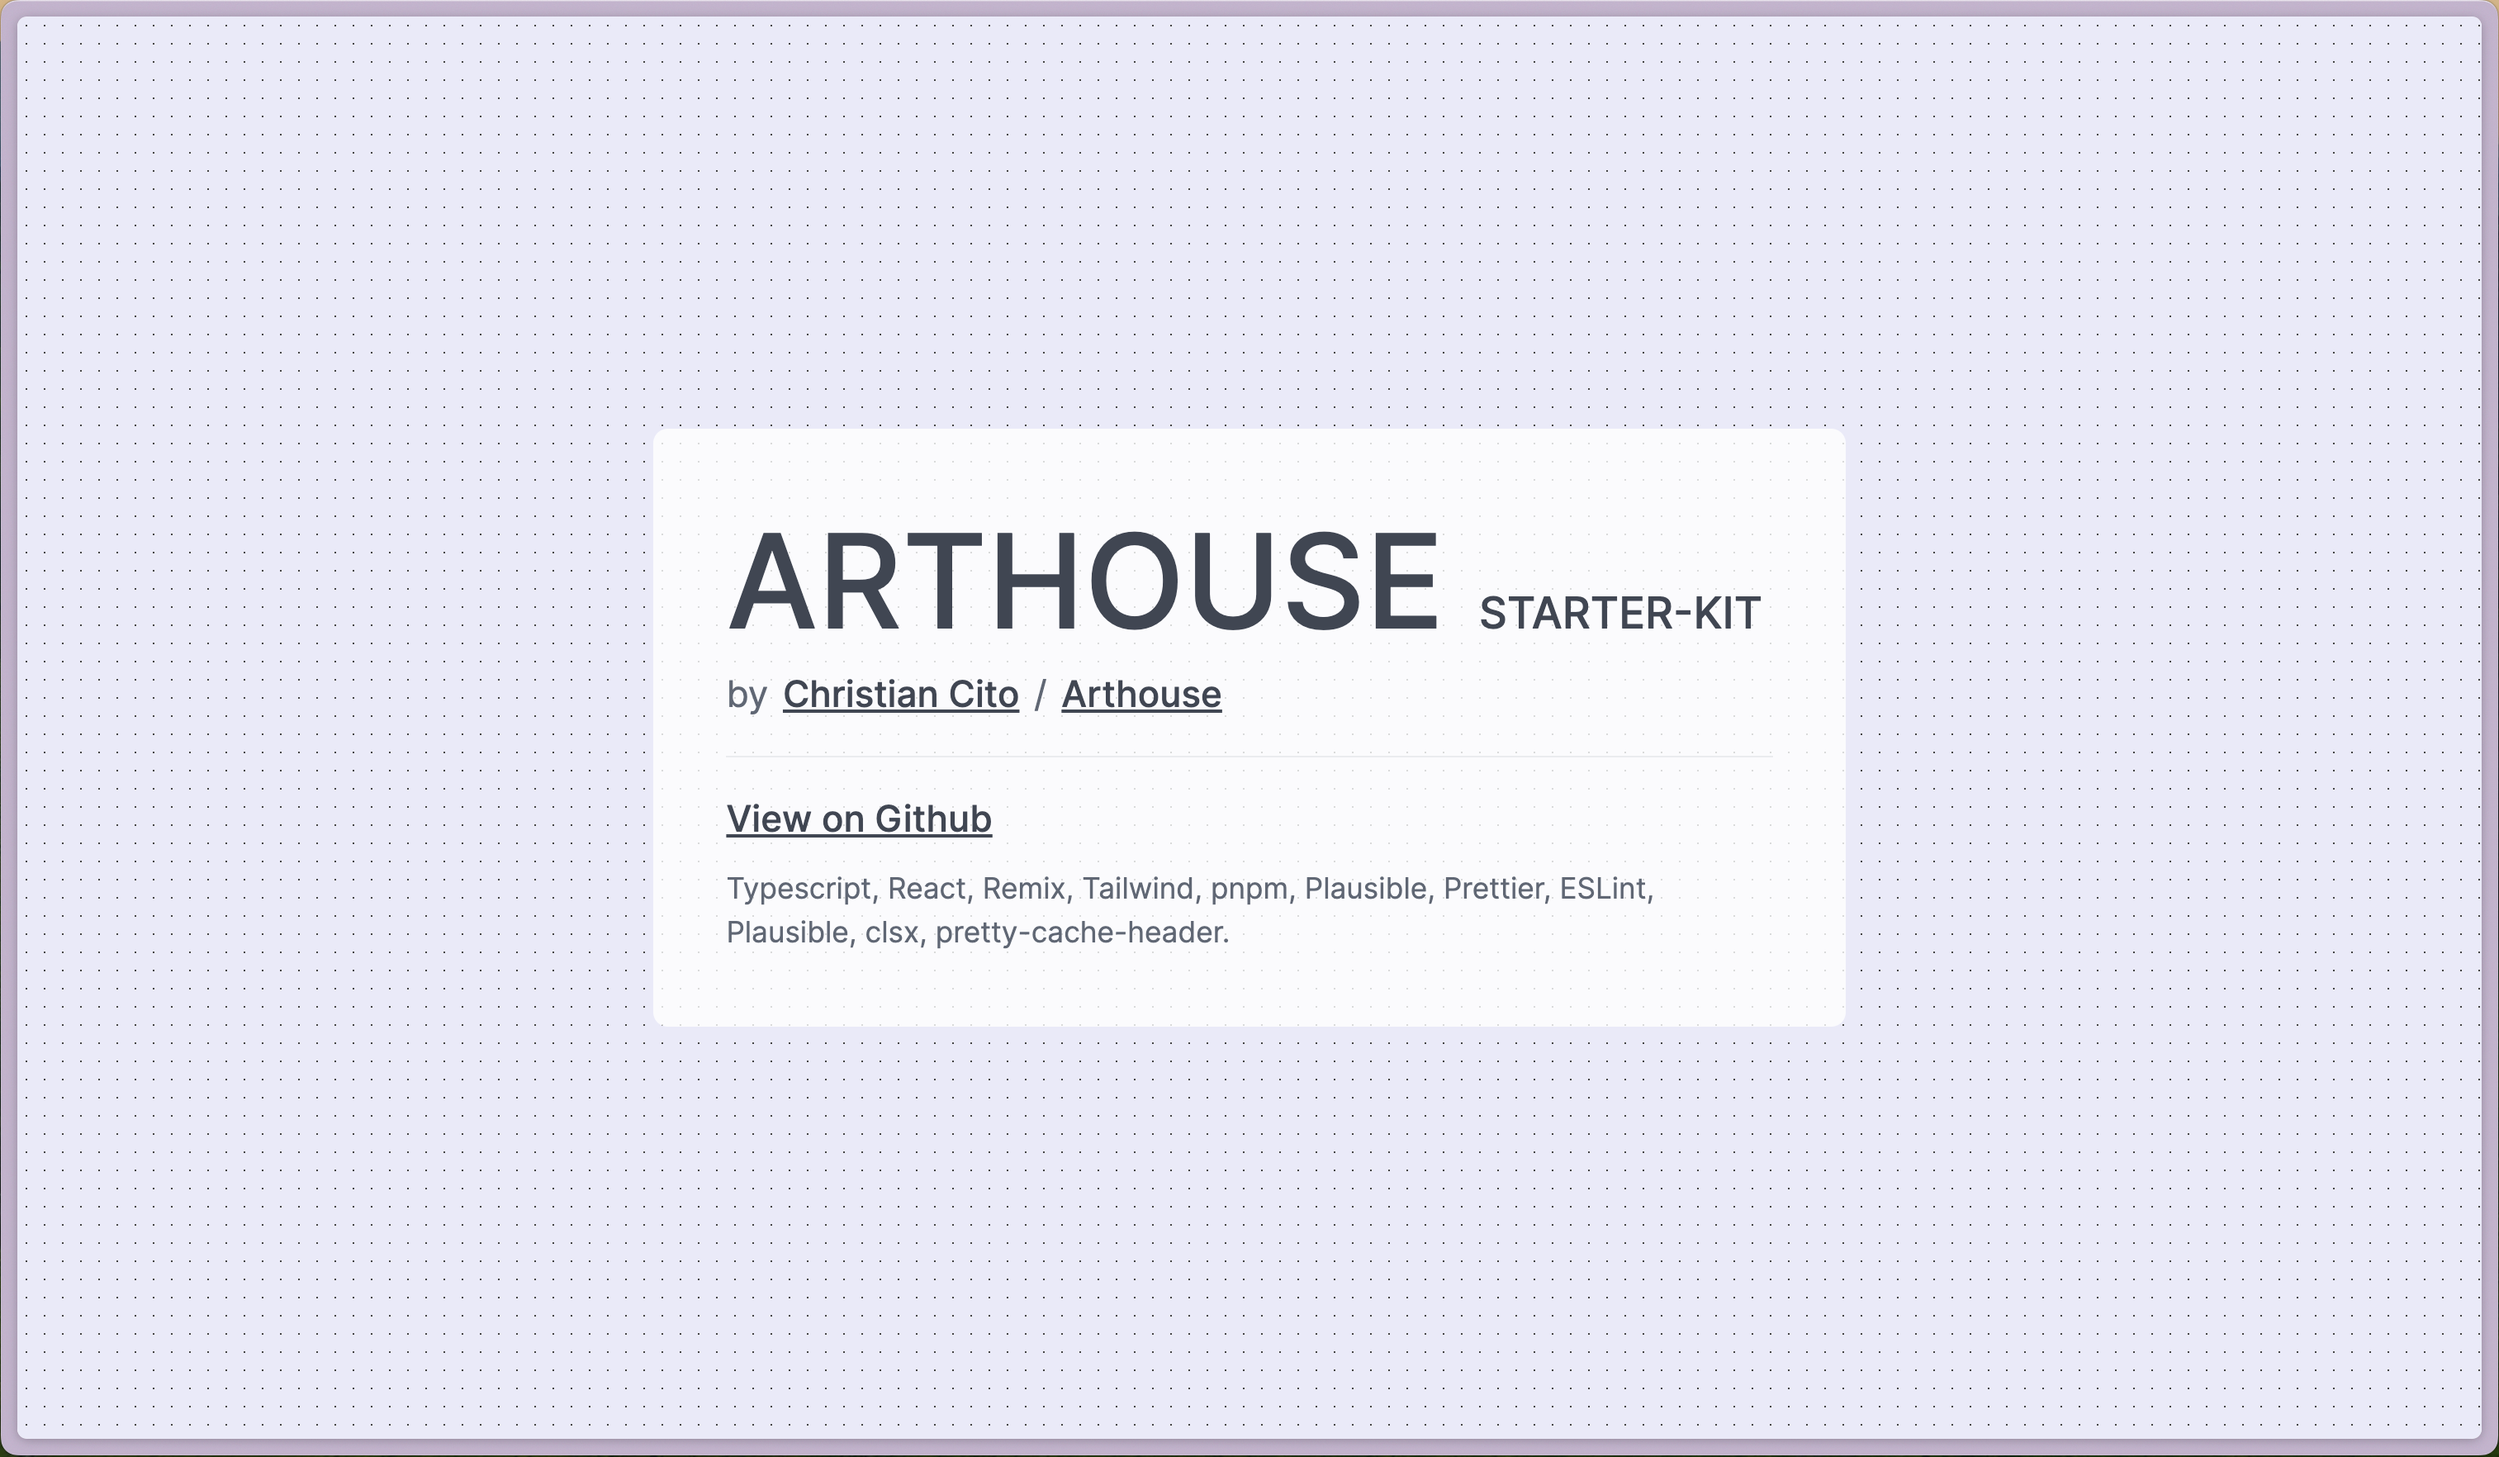
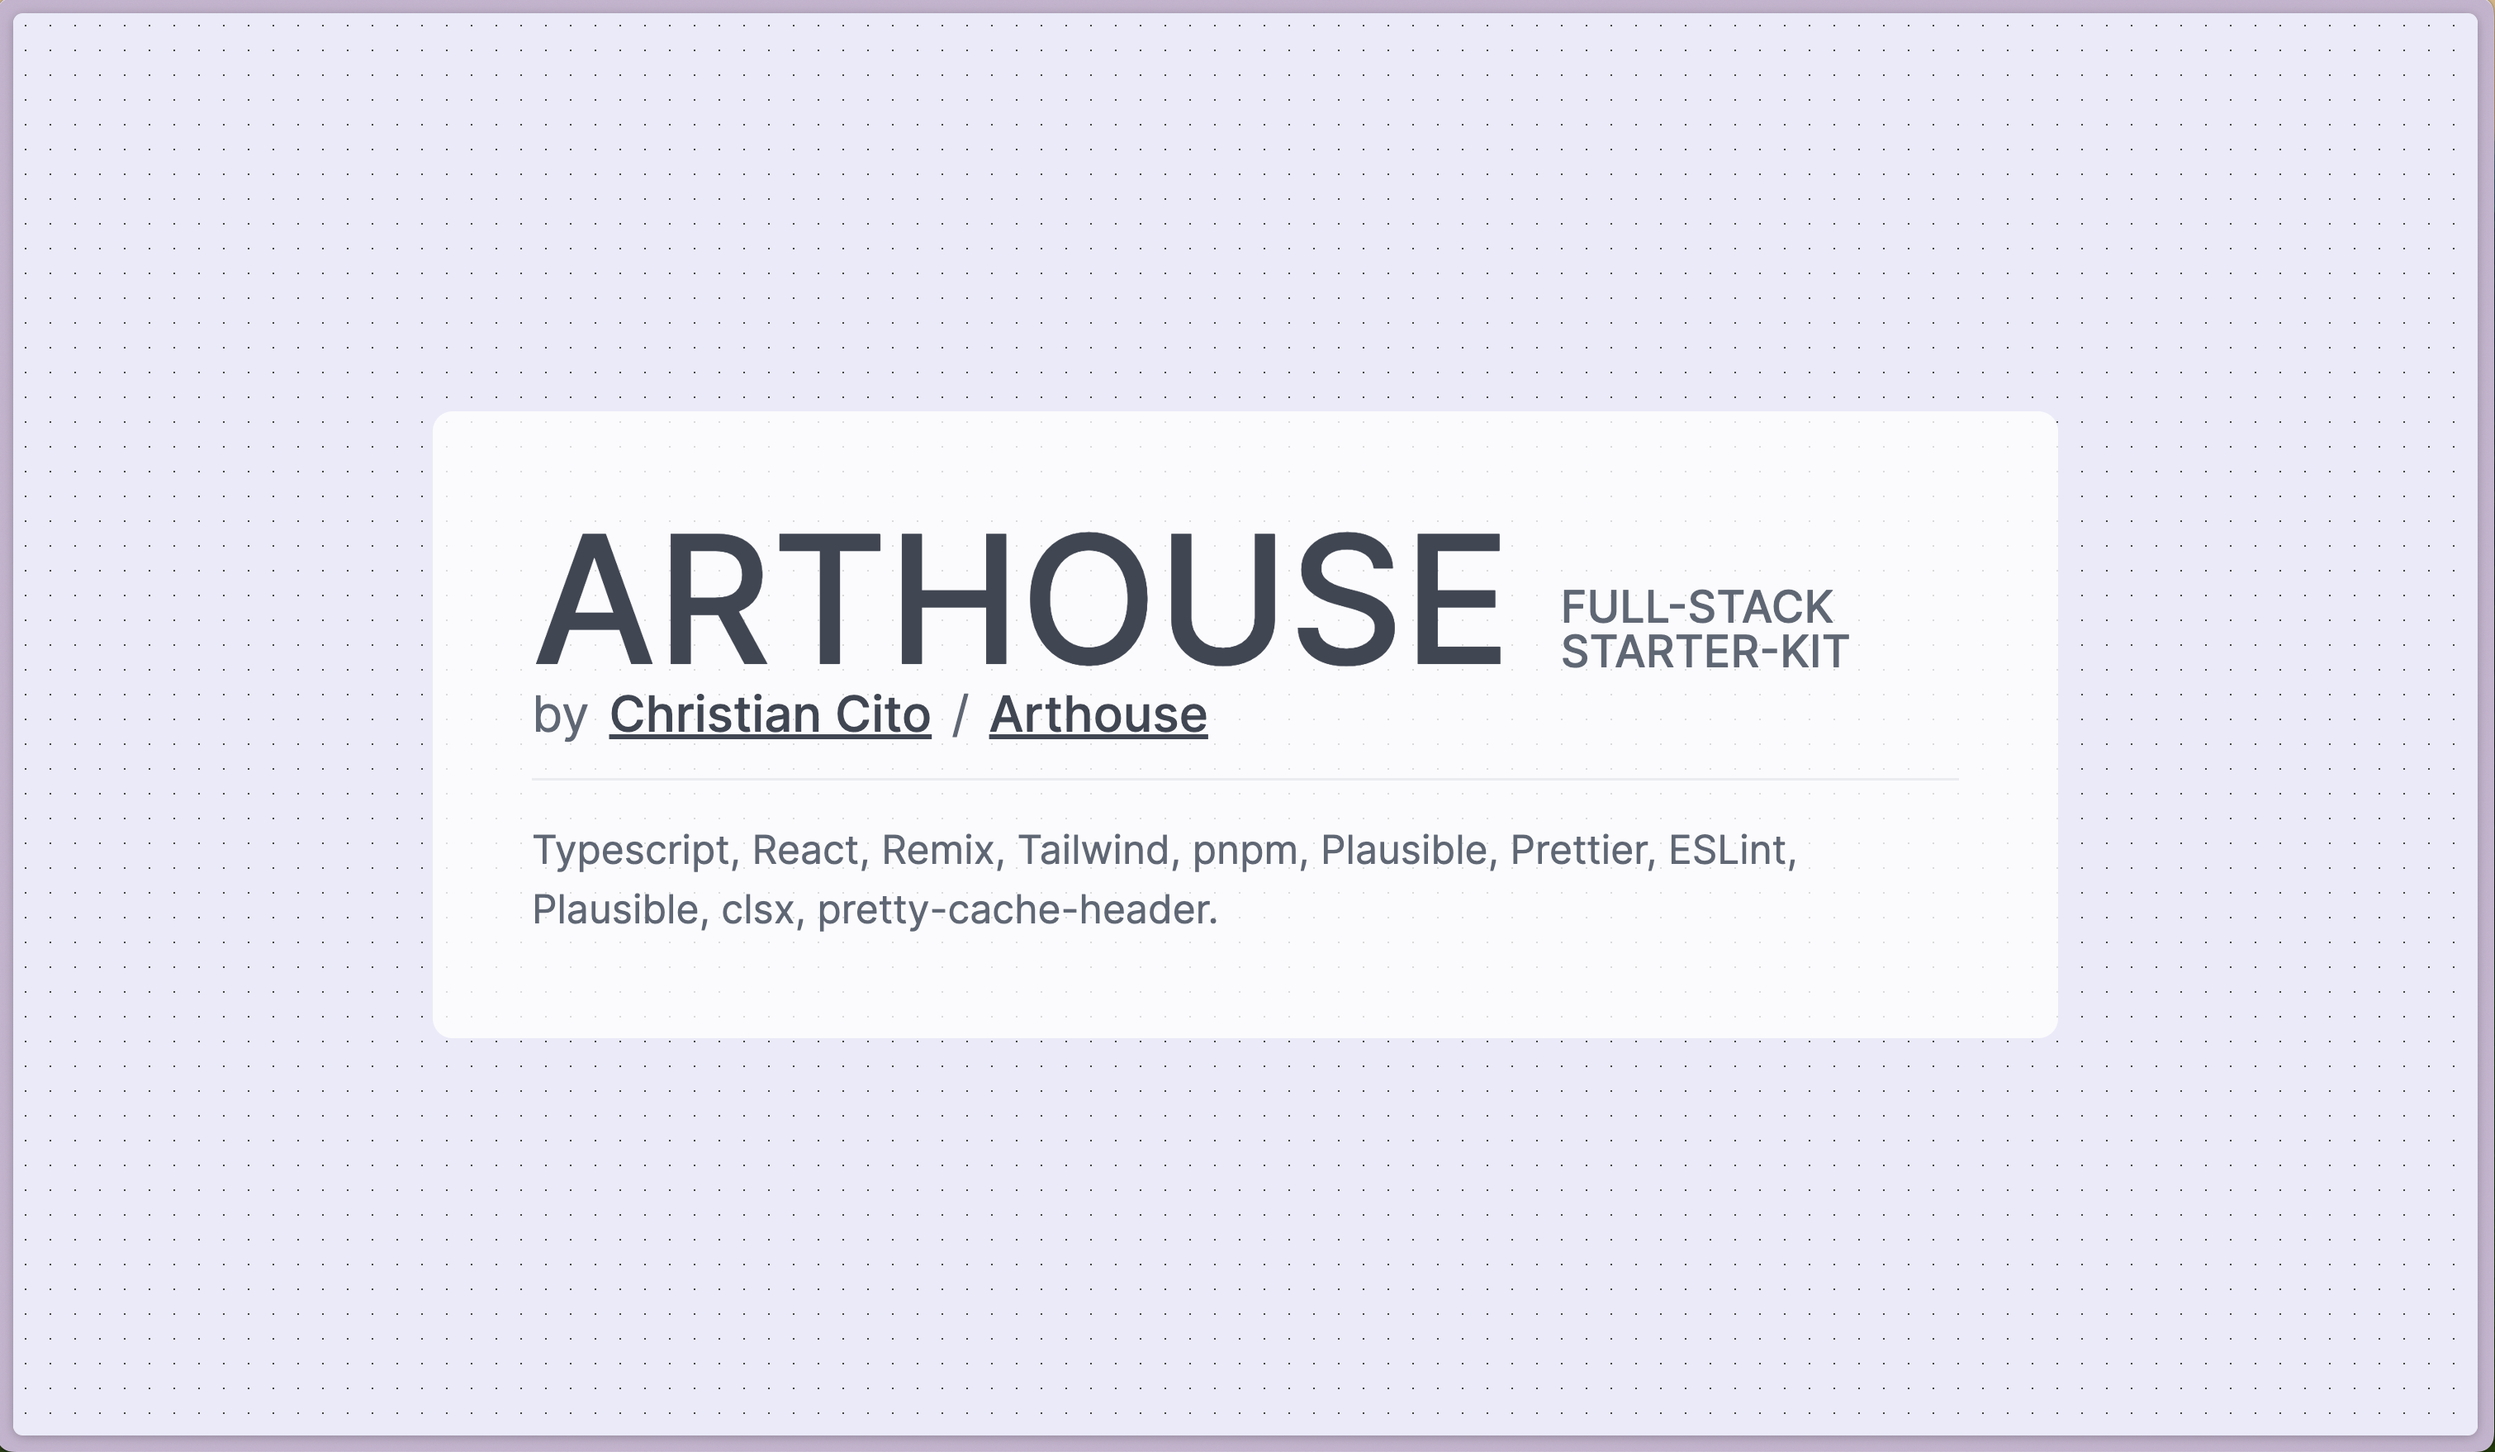
fix: adjust landing page styling

diff --git a/app/routes/_index.tsx b/app/routes/_index.tsx
@@ -36,12 +36,18 @@ export default function Index() {
       }}
       className="flex h-screen items-center justify-center"
     >
-      <div className="prose prose-xl mx-4 h-fit max-w-fit gap-5 space-y-4 rounded-lg bg-white/80 p-10 sm:mx-auto">
+      <div className="prose mx-4 h-fit max-w-fit gap-5 space-y-4 rounded-lg bg-white/80 p-5 md:prose-xl sm:mx-auto md:p-10">
         <header>
-          <h1 className="my-2 text-7xl font-medium uppercase">
-            Arthouse <span className="text-2xl">Starter-Kit</span>
-          </h1>
-          <div className="flex items-center gap-2">
+          <div className="flex flex-row flex-wrap items-end gap-5">
+            <h1 className="!m-0 text-4xl font-medium uppercase md:text-7xl">
+              Arthouse{" "}
+            </h1>
+            <div className="mb-1.5 inline-flex flex-col gap-0 text-lg font-medium uppercase leading-none">
+              <span>Full-Stack</span>
+              <span>Starter-Kit</span>
+            </div>
+          </div>
+          <div className="flex flex-wrap items-center gap-2 leading-5">
             by
             <a href="https://chrcit.com?utm_source=arthouse-template">
               Christian Cito
@@ -55,12 +61,7 @@ export default function Index() {
 
         <hr className="my-4" />
         <main className="flex max-w-xl flex-col gap-2">
-          <p className="my-0">
-            <a href="https://github.com/madebyarthouse/arthouse-starter-kit">
-              View on Github
-            </a>
-          </p>
-          <p className="my-0 text-base">
+          <p className="!my-0 text-base">
             Typescript, React, Remix, Tailwind, pnpm, Plausible, Prettier,
             ESLint, Plausible, clsx, pretty-cache-header.
           </p>
